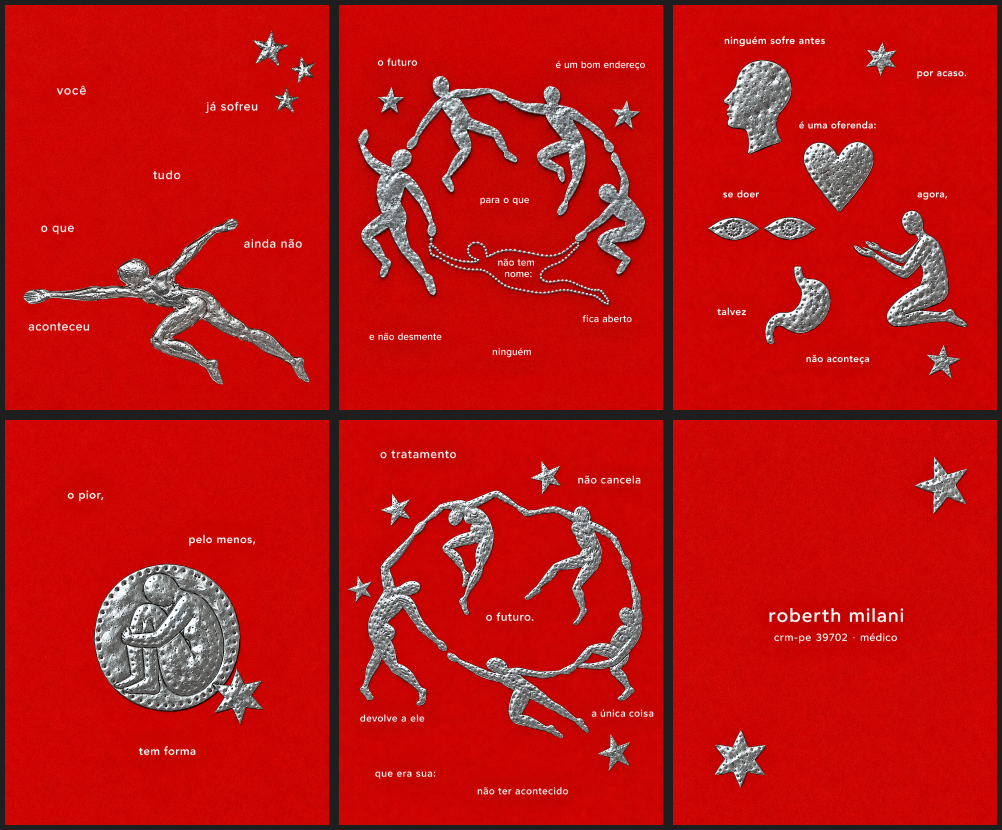
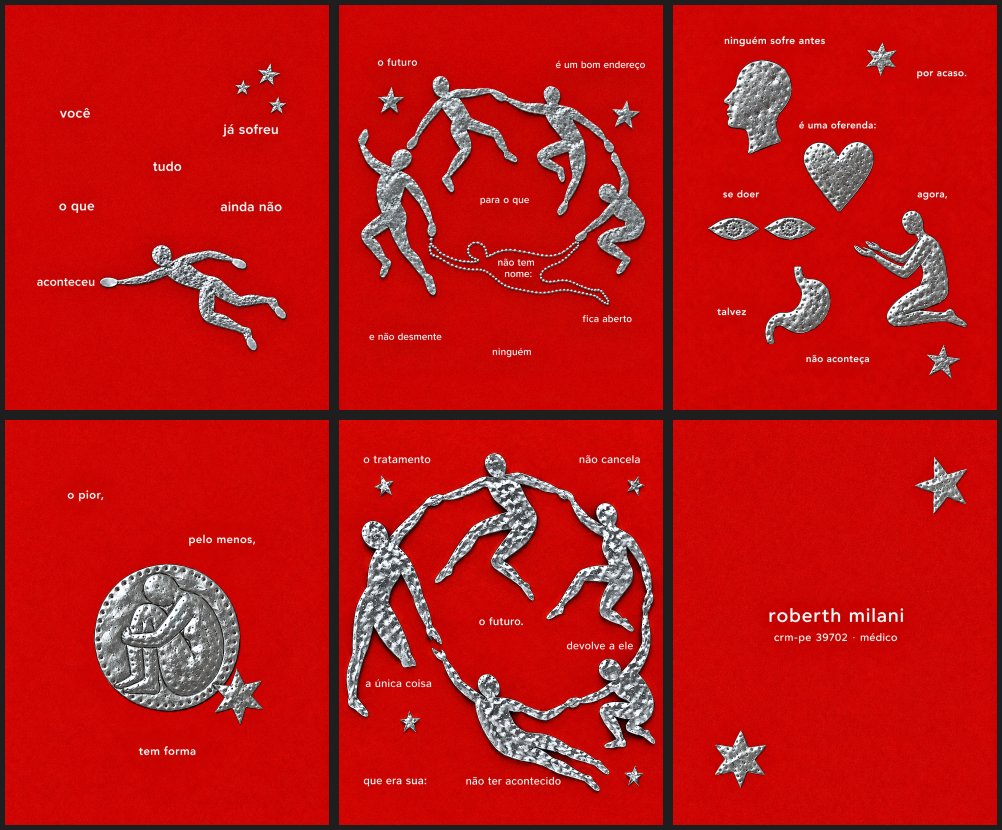
Post 7: p5 com mãos dadas certas (texto reordenado) e p1 nova; script de grão
Claude-Session: https://claude.ai/code/session_01J3SKsUX4yRG8hRjy2MrriK

diff --git a/posts/igualar_grao.py b/posts/igualar_grao.py
@@ -1,0 +1,71 @@
+"""Iguala o grão do fundo vermelho entre páginas.
+
+Uso:
+    python3 igualar_grao.py --ref REF1.png REF2.png ... --alvo ALVO1.png ... --saida PASTA
+
+Mede o grão (ruído fino) só no fundo, longe do metal e do texto, nas páginas de
+referência, e acrescenta ruído do mesmo tamanho de grão às páginas-alvo que
+tiverem menos. Não mexe no metal nem no texto. Páginas com grão igual ou maior
+ficam como estão.
+"""
+import argparse
+import sys
+from pathlib import Path
+
+import cv2
+import numpy as np
+
+sys.path.insert(0, str(Path(__file__).resolve().parent))
+from realcar_metal import mascaras  # noqa: E402
+
+
+def medir(rgb):
+    mm, mt = mascaras(rgb)
+    k = cv2.getStructuringElement(cv2.MORPH_ELLIPSE, (15, 15))
+    livre = cv2.dilate(((mm > 0.01) | (mt > 0.01)).astype(np.uint8), k) == 0
+    f = rgb.astype(np.float32)
+    d = f - cv2.GaussianBlur(f, (0, 0), 6)
+    par = livre[:, :-1] & livre[:, 1:]
+    corr = np.corrcoef(d[:, :-1, 1][par], d[:, 1:, 1][par])[0, 1]
+    return d[livre].std(axis=0), corr, mm, mt
+
+
+def ruido_com_correlacao(forma, corr, semente):
+    rng = np.random.default_rng(semente)
+    base = rng.standard_normal(forma).astype(np.float32)
+    melhor = None
+    for sig in (0.0, 0.4, 0.5, 0.6, 0.7, 0.8, 1.0):
+        n = cv2.GaussianBlur(base, (0, 0), sig) if sig > 0 else base
+        c = np.corrcoef(n[:, :-1].ravel(), n[:, 1:].ravel())[0, 1]
+        if melhor is None or abs(c - corr) < abs(melhor[0] - corr):
+            melhor = (c, n / n.std())
+    return melhor[1]
+
+
+def main():
+    ap = argparse.ArgumentParser()
+    ap.add_argument("--ref", nargs="+", type=Path, required=True)
+    ap.add_argument("--alvo", nargs="+", type=Path, required=True)
+    ap.add_argument("--saida", type=Path, required=True)
+    a = ap.parse_args()
+    a.saida.mkdir(parents=True, exist_ok=True)
+    refs = [medir(cv2.cvtColor(cv2.imread(str(p)), cv2.COLOR_BGR2RGB))[:2] for p in a.ref]
+    alvo_std = np.mean([r[0] for r in refs], axis=0)
+    alvo_corr = float(np.mean([r[1] for r in refs]))
+    print(f"referência: grão {alvo_std.round(2)} correlação {alvo_corr:.2f}")
+    for i, p in enumerate(a.alvo):
+        rgb = cv2.cvtColor(cv2.imread(str(p)), cv2.COLOR_BGR2RGB)
+        std, corr, mm, mt = medir(rgb)
+        falta = np.sqrt(np.clip(alvo_std ** 2 - std ** 2, 0, None))
+        n = ruido_com_correlacao(rgb.shape[:2], alvo_corr, 39702 + i)
+        k = cv2.getStructuringElement(cv2.MORPH_ELLIPSE, (5, 5))
+        peca = cv2.dilate(((mm > 0.01) | (mt > 0.01)).astype(np.uint8), k)
+        m = cv2.GaussianBlur((1 - peca).astype(np.float32), (0, 0), 1.2)[..., None]
+        out = np.clip(rgb.astype(np.float32) + n[..., None] * falta[None, None, :] * m + 0.5, 0, 255).astype(np.uint8)
+        depois = medir(out)[0]
+        cv2.imwrite(str(a.saida / p.name), cv2.cvtColor(out, cv2.COLOR_RGB2BGR), [cv2.IMWRITE_PNG_COMPRESSION, 6])
+        print(f"{p.name}: grão {std.round(2)} -> {depois.round(2)}")
+
+
+if __name__ == "__main__":
+    main()
